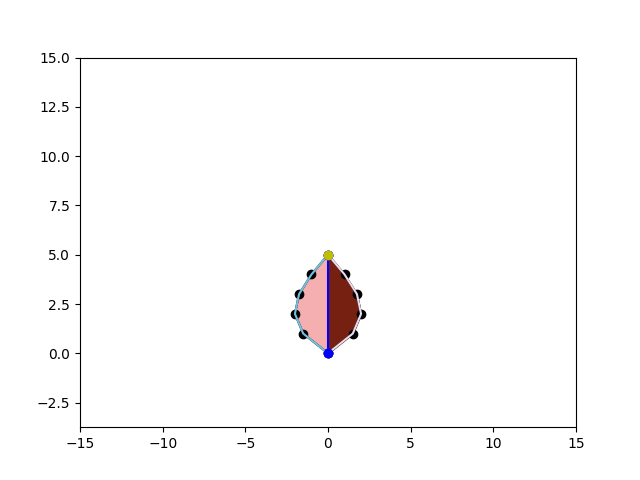
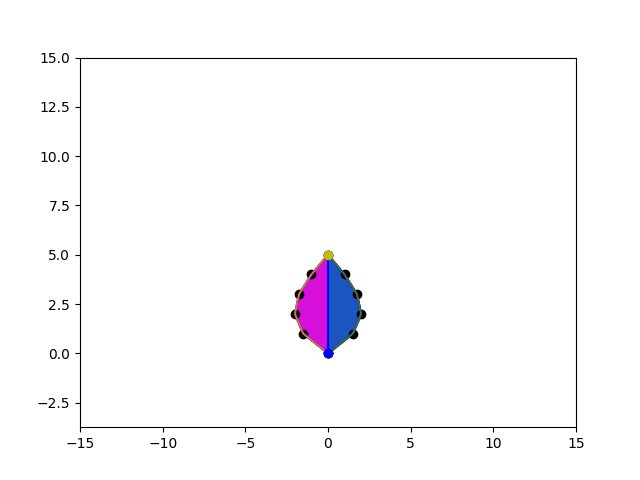
working debug plut with vein segments correct!

Changed region(s): [[0.4375, 0.5312, 0.5625, 0.75]]

diff --git a/Prototype1/growth.py b/Prototype1/growth.py
@@ -72,7 +72,7 @@ def interpolate_pts(pt_A, pt_B, leaf, mustAdd, interpolation):
 
 def init_cp_indicators(leaf, interpolation):
     cp_indicators, cp_index = leaf.margin.get_cp_indicators()
-    print(f"cp_indicators:  {cp_indicators}, cp_index: {cp_index}")
+    # print(f"cp_indicators:  {cp_indicators}, cp_index: {cp_index}")
     # check if points need to be interpolated
     if len(cp_index) > 1:
         prev_i = 0
@@ -95,18 +95,6 @@ def init_cp_indicators(leaf, interpolation):
                 print(f"cp_indicators:  {cp_indicators}, cp_index: {cp_index}")
             prev_i = i
     return cp_indicators, cp_index
-
-
-def hard_coded_cp_addition(leaf):
-    """create new cp for vein insertion this is temporarily hard coded for poc,
-    later done dynamically based on threshold during growth"""
-    leaf.margin.points[2].is_cp = 1
-    # leaf.margin.points[3].is_cp = 1
-    leaf.margin.points[7].is_cp = 1
-    # leaf.margin.points[8].is_cp = 1
-    leaf.margin.check_conv_points()
-    return leaf
-
 
 def calculate_gr(dist, dir, gr, cp_th):
     """multiply direction * gr * distance and
@@ -162,21 +150,17 @@ def expand_veins(leaf, gr, interpolation, cp_th):
 def calculate_margin_distance(margin_part):
     """calculates the length of a margin section, from cp to cp"""
     dist_array = np.zeros(len(margin_part))
-
     prev_pt = margin_part[0]
     for i in range(len(margin_part)):
         pt = margin_part[i]
         dist_array[i] = euclidean_distances([pt.pos], [prev_pt.pos])
         prev_pt = pt
-
     dist_sum = dist_array.sum()
-
     return dist_array, dist_sum
 
 
 def insert_cp(vein_assoc, margin_part, dist_array, dist_sum):
     """Inserts a new cp in the middle of two cps."""
-
     middle = dist_sum / 2
     temp_dist = 0
     pos = np.zeros(2)
@@ -184,11 +168,9 @@ def insert_cp(vein_assoc, margin_part, dist_array, dist_sum):
         temp_dist += dist_array[i]
         if temp_dist >= middle:
             pos = interpolate_pts(margin_part[i - 1], margin_part[i], None, False, 1)
-            print(f"interpolated position: {pos}")
+            # print(f"interpolated position: {pos}")
             break
-
     new_cp = Point(pos, 1, vein_assoc, 0, 0)
-
     return new_cp
 
 
@@ -206,18 +188,18 @@ def introduce_new_cp(leaf, cp_th, interpolation):
             else:
                 next_cp_i = cp_index[0]
                 margin_part = leaf.margin.points[prev_cp_i:(next_cp_i + 1)]
-            print(f"cp_index = {cp_index}")
+            # print(f"cp_index = {cp_index}")
 
             # insert new cp if it exceeds the margin
             dist_array, dist_sum = calculate_margin_distance(margin_part)
             if cp_th < dist_sum:
                 new_cp = insert_cp([leaf.primordium_vein], margin_part, dist_array, dist_sum)
                 new_cps.append(new_cp)
-            print(f"number of cp's to add: {len(new_cps)}")
+            # print(f"number of cp's to add: {len(new_cps)}")
 
             if cp_index == []:
                 for cp in new_cps:
-                    print(f"new_cp: {cp}")
+                    # print(f"new_cp: {cp}")
                     leaf.margin.insert_point(cp)
                     leaf.margin.check_conv_points()
                 return leaf
@@ -262,20 +244,24 @@ def vein_addition(leaf, kv):
         cp = leaf.margin.all_cp[cp_i]
         print(f"creating new vein for: {cp}")
         if cp.has_vein == 1:  # skip if already connected to a vein
+            print("has vein")
             continue
         else:
             # create new vein
             # TODO! replace create_anchor_point by find_optimal_angle etc
-
+            print(f"cp.vein_assoc:, {len(cp.vein_assoc), cp.vein_assoc}")
             anchor_pt = create_anchor_point(cp, cp.vein_assoc)
             new_vein = Vein([anchor_pt, cp], anchor_pt, cp)
-
+            print(f"new_vein:, {new_vein}")
             # add vein to vein assoc
-            anchor_pt.connect_to_new_vein(new_vein)
             anchor_pt.has_vein = 1
             cp.connect_to_new_vein(new_vein)
             cp.has_vein = 1
 
             # add vein to leaf
             leaf.add_vein(new_vein)
+            print(f"cp.vein_assoc:, {len(cp.vein_assoc), cp.vein_assoc}")
+            print(f"leaf.all_veins:, {len(leaf.all_veins), leaf.all_veins}")
+
+
     return leaf

diff --git a/Prototype1/visualization.py b/Prototype1/visualization.py
@@ -56,11 +56,12 @@ def plot_leaf_segments(leaf, dim, path, name, step):  # base_point, all_veins, m
         plt.plot(segments_x[i], segments_y[i], color=np.random.rand(3,))
         # draw fill segments between veins
         # vein_seg = leaf.segments[i].vein_segment
+        print(f"segments_y {segments_y}")
         vein_seg = leaf.segments[i].vein_segment
-        vein_seg_x = [i[0] for vein in vein_seg for i in vein]
-        vein_seg_y = [i[1] for vein in vein_seg for i in vein]
-        x_fill= vein_seg_x + segments_x[i]
-        y_fill= vein_seg_y + segments_y[i]
+        # vein_seg_x = [i[0] for vein in vein_seg for i in vein]
+        # vein_seg_y = [i[1] for vein in vein_seg for i in vein]
+        x_fill = segments_x[i]
+        y_fill = segments_y[i]
         print(f"x_fill: {x_fill}")
         print(f"y_fill: {y_fill}")
 

diff --git a/Prototype1/leafstructure.py b/Prototype1/leafstructure.py
@@ -283,7 +283,6 @@ class Leaf:
                 total_seg = [left_cp_vein, right_cp_vein]
                 # find intersection of the next associated veins
                 for i in (range(2, max(len(assoc_left), len(assoc_right)))):
-                    # TODO see if its necessary to cap at minimum length i.e.
                     i_left = min(len(assoc_left), i)
                     i_right = min(len(assoc_right), i)
                     # only consider parts within segment, so cut of the vein to the required part

diff --git a/Prototype1/Main.py b/Prototype1/Main.py
@@ -21,10 +21,7 @@ def main():
         expand_veins(leaf, GR, INTERPOLATION, CP_TH)
         # modification of morphogen distribution
 
-        # new convergence points & possible new morphogen distribution
-        # if i < 0:
-        #     hard_coded_cp_addition(leaf)
-        # else:
+        # introducing new cp's after margin growth
         introduce_new_cp(leaf, CP_TH, INTERPOLATION)
         print(f"len of margin: {len(leaf.margin.points)}")
         print(f"all cp len: {len(leaf.margin.all_cp)}")
